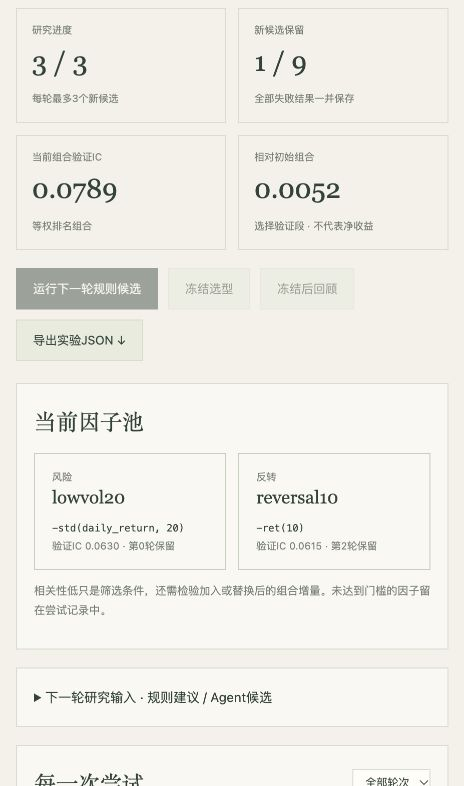
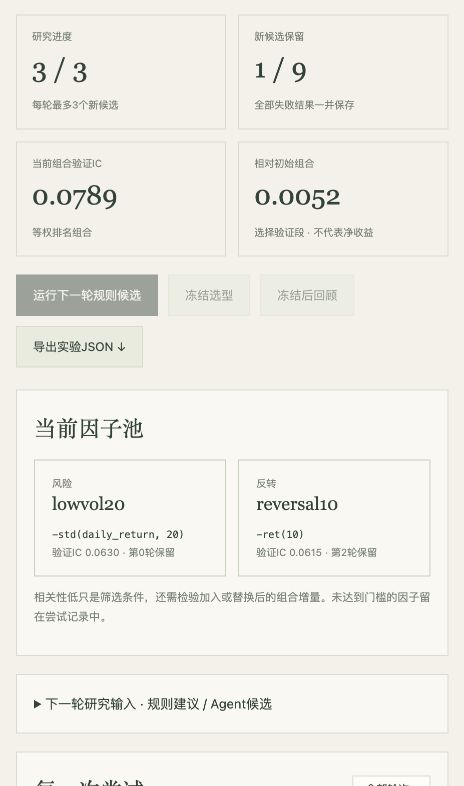
Clarify factor research figures and remove submission draft

diff --git a/tools/render_evolution_figures.py b/tools/render_evolution_figures.py
@@ -1,0 +1,118 @@
+"""Render vector evidence figures for the saved lecture-six study (no market data)."""
+
+import hashlib
+import json
+from html import escape
+from pathlib import Path
+
+ROOT = Path(__file__).resolve().parents[1]
+SOURCE = ROOT / "results/evolution_runs/a4099ff45a9f/study.json"
+INK, MUTED, GREEN, RUST = "#294137", "#647267", "#346a4b", "#a65c3e"
+
+
+class Figure:
+    def __init__(self, title, subtitle, height):
+        self.height = height
+        self.parts = [
+            f'<svg xmlns="http://www.w3.org/2000/svg" width="1200" height="{height}" viewBox="0 0 1200 {height}" role="img">',
+            f"<title>{escape(title)}</title><desc>{escape(subtitle)}</desc>",
+            '<style>text{font-family:"PingFang SC","Microsoft YaHei","Noto Sans CJK SC",sans-serif} .num{font-variant-numeric:tabular-nums}</style>',
+        ]
+        self.rect(0, 0, 1200, height, "#f4f1e9")
+        self.text(48, 48, "STONEFLOW / 穿石因子实验室", 17, MUTED)
+        self.text(48, 101, title, 34)
+        self.text(48, 139, subtitle, 20, MUTED)
+
+    def rect(self, x, y, width, height, fill, stroke=None):
+        self.parts.append(f'<rect x="{x}" y="{y}" width="{width}" height="{height}" rx="4" fill="{fill}"' + (f' stroke="{stroke}"' if stroke else "") + "/>")
+
+    def text(self, x, y, value, size=22, color=INK, anchor="start", weight=400):
+        self.parts.append(f'<text x="{x}" y="{y}" font-size="{size}" fill="{color}" text-anchor="{anchor}" font-weight="{weight}" class="num">{escape(str(value))}</text>')
+
+    def line(self, y):
+        self.parts.append(f'<path d="M48 {y}H1152" stroke="#d1d7ca"/>')
+
+    def save(self, name, digest):
+        self.line(self.height - 56)
+        self.text(48, self.height - 24, f"数据图 · study a4099ff45a9f · SHA256 {digest[:12]} · 由完整实验记录生成", 16, MUTED)
+        (ROOT / "docs" / name).write_text("\n".join(self.parts + ["</svg>"]), encoding="utf-8")
+
+
+def main():
+    raw = SOURCE.read_bytes()
+    study = json.loads(raw)
+    digest = hashlib.sha256(raw).hexdigest()
+    new = [c for c in study["candidates"].values() if c["round"] > 0]
+    initial = study["baseline"]["metrics"]["validation"]
+    final = study["pool_metrics"]["validation"]
+    before = study["review"]["seed_pool"]["metrics"]
+    after = study["review"]["selected_pool"]["metrics"]
+
+    fig = Figure("三轮研究，留下一个有组合增量的新因子", "2024 搜索 → 2025 反复选择验证 → 冻结后回顾 2026 年 1—9 月", 960)
+    stats = [("起始因子", len(study["candidates"]) - len(new)), ("研究轮次", study["rounds_completed"]), ("新候选", len(new)), ("新候选获保留", sum(c["accepted"] for c in new))]
+    for i, (label, value) in enumerate(stats):
+        x = 48 + i * 280
+        fig.rect(x, 172, 264, 108, "#faf8f2", "#d1d7ca")
+        fig.text(x + 20, 207, label, 20, MUTED)
+        fig.text(x + 20, 257, value, 39, GREEN)
+
+    fig.rect(48, 306, 1104, 125, "#e5ebdc")
+    fig.text(72, 343, "初始因子池", 20, MUTED)
+    fig.text(72, 392, "五日反转 ＋ 20日低波动", 27)
+    fig.text(575, 388, "→", 34, RUST)
+    fig.text(672, 343, "冻结因子池 · 两个家族，等权秩组合", 20, MUTED)
+    fig.text(672, 392, "十日反转 ＋ 20日低波动", 27, GREEN)
+
+    fig.text(48, 479, "同口径比较", 26)
+    fig.text(805, 479, "初始因子池", 20, MUTED, "end")
+    fig.text(1125, 479, "冻结因子池", 20, MUTED, "end")
+    rows = [
+        ("2025 选择验证 · 组合 Rank IC", f'{initial["rank_ic"]:.4f}', f'{final["rank_ic"]:.4f}'),
+        ("2025 选择验证 · 正 IC 月份", f'{round(initial["positive_months"] * initial["months"])}/12', f'{round(final["positive_months"] * final["months"])}/12'),
+        ("2026 冻结后回顾 · 组合 Rank IC", f'{before["rank_ic"]:.4f}', f'{after["rank_ic"]:.4f}'),
+        ("2026 回顾 · Q5−Q1 平均未来5日报价收益", f'{before["spread"]:.4%}', f'{after["spread"]:.4%}'),
+    ]
+    for i, (label, a, b) in enumerate(rows):
+        y = 532 + i * 57
+        fig.text(48, y, label, 22)
+        fig.text(805, y, a, 27, MUTED, "end")
+        fig.text(1125, y, b, 27, RUST if i in (1, 3) else GREEN, "end")
+        fig.line(y + 19)
+
+    fig.text(48, 779, "为何只留一个？", 24, weight=600)
+    fig.text(48, 816, "10日低波动的单因子 IC 更高，但替换后组合没有增量，仍然淘汰。", 23)
+    fig.text(48, 858, "平均 IC 提高，验证正 IC 月份减少；回顾收益差仍为负，尚未证明更赚钱。", 21, RUST)
+    fig.text(48, 886, "2026 历史此前已查看，属于回顾而非新盲测；报价收益未扣费，未完成净交易验证。", 18, MUTED)
+    fig.save("stoneflow-evolution-results.svg", digest)
+
+    fig = Figure("9 个新候选，每一次保留和淘汰都有依据", "接受条件：组合验证 IC 至少增加 0.0001，且搜索 IC 下降不超过 0.005（另需通过质量门槛）", 1040)
+    columns = [(48, "轮次 / 来源", "start"), (214, "候选因子", "start"), (735, "单因子验证 IC", "end"), (980, "组合验证 IC 增量", "end"), (1145, "决定", "end")]
+    for x, label, anchor in columns:
+        fig.text(x, 198, label, 20, MUTED, anchor)
+    fig.line(218)
+    families = {"reversal": "反转", "risk": "风险", "price_location": "价格位置", "price_volume": "价量交互", "hybrid": "跨家族组合"}
+    for i, candidate in enumerate(new):
+        y = 254 + i * 69
+        accepted = candidate["accepted"]
+        if accepted:
+            fig.rect(36, y - 26, 1128, 67, "#e0ead8")
+        fig.text(48, y, f'第{candidate["round"]}轮', 22)
+        fig.text(48, y + 24, "规则建议" if candidate["source"] == "rule-baseline" else "Agent 导入", 17, MUTED)
+        fig.text(214, y, candidate["spec"]["key"], 22)
+        family = candidate["spec"]["family"]
+        fig.text(214, y + 24, families.get(family, family), 17, MUTED)
+        fig.text(735, y + 8, f'{candidate["metrics"]["validation"]["rank_ic"]:.4f}', 24, INK, "end")
+        gain = candidate["pool_validation_gain"]
+        gain_label = f"{gain:+.2e}" if 0 < abs(gain) < 0.000001 else f"{gain:+.6f}"
+        fig.text(980, y + 8, gain_label, 24, GREEN if accepted else RUST, "end")
+        fig.text(1145, y + 8, "保留" if accepted else "淘汰", 22, GREEN if accepted else RUST, "end", 600)
+        fig.line(y + 43)
+
+    fig.text(48, 922, "第2轮：十日反转替换五日反转；第3轮没有候选通过，保留池不变。", 23)
+    fig.text(48, 958, "增量均相对该候选提出时的当前因子池；全部原始指标、提出理由和失败记录可在实验报告核查。", 18, MUTED)
+    fig.save("stoneflow-evolution-candidates.svg", digest)
+    print("Generated two SVG figures from", SOURCE.relative_to(ROOT))
+
+
+if __name__ == "__main__":
+    main()

diff --git a/README_EVOLUTION.md b/README_EVOLUTION.md
@@ -4,9 +4,23 @@
 
 **本次结果：**5个起始因子、3轮9个新候选，接受1个。十日反转替换五日反转，与20日低波动组成最终因子池。选择验证段组合Rank IC从0.0738升至0.0789；2026回顾从0.0404升至0.0520。但回顾段Q5−Q1报价收益仍为负，未完成新组合的净交易验证，不能据此宣称更赚钱。
 
-[实验报告](results/evolution_runs/a4099ff45a9f/REPORT.md) · [全部实验记录](results/evolution_runs/a4099ff45a9f/study.json) · [逐候选CSV](results/evolution_runs/a4099ff45a9f/candidates.csv) · [提交文案](SUBMISSION_LECTURE6.md)
+[实验报告](results/evolution_runs/a4099ff45a9f/REPORT.md) · [全部实验记录](results/evolution_runs/a4099ff45a9f/study.json) · [逐候选CSV](results/evolution_runs/a4099ff45a9f/candidates.csv)
 
-![穿石因子改进模块](docs/stoneflow-factor-evolution.png)
+![三轮因子研究的前后对比：验证IC提高、验证正IC月份减少、回顾收益差仍为负](docs/stoneflow-evolution-results.svg)
+
+![9个新候选的单因子验证IC、组合增量及保留淘汰决定](docs/stoneflow-evolution-candidates.svg)
+
+以上为实验记录生成的矢量数据图，点击可放大查看。数据源与指纹保留在图中；运行 `python tools/render_evolution_figures.py` 可重新生成。
+
+<details>
+<summary>查看实际模块页面：因子池与冻结后回顾</summary>
+
+页面截图按原始宽度展示，避免放大模糊。完整候选可在下方的只读交互快照中筛选和展开。
+
+<img src="docs/stoneflow-factor-pool.png" width="464" alt="实际模块的研究指标与冻结因子池">
+<img src="docs/stoneflow-factor-review.png" width="464" alt="实际模块的冻结后回顾，包括初始池、冻结池和5DR基准">
+
+</details>
 
 ## 使用入口
 
